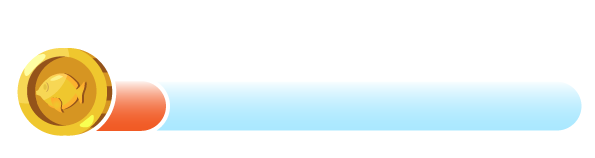
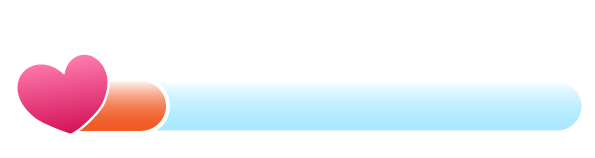
added responsiveness

Changed region(s): [[0.0303, 0.3038, 0.2118, 0.8608]]

diff --git a/models/world.class.js b/models/world.class.js
@@ -5,6 +5,7 @@ class World {
     camera_x = 0;
     character = new Character();
     level = level1;
+    statusBar = new StatusBar();
 
 
     constructor(canvas, keyboard) {
@@ -37,6 +38,11 @@ class World {
         this.addObjectsToMap(this.level.lights);
         this.addObjectToMap(this.character);
         this.addObjectsToMap(this.level.enemies);
+        this.ctx.translate(-this.camera_x, 0);
+        // Space for fixed Objects:
+        this.addObjectToMap(this.statusBar);
+        // space end
+        this.ctx.translate(this.camera_x, 0);
     }
 
     addObjectsToMap(obj) {
@@ -92,9 +98,9 @@ class World {
             this.level.enemies.forEach((enemy) => {
                 if (this.character.isColliding(enemy) && !this.character.isHurt() && !this.character.hasNoHealth()) {
                     this.addDamage(enemy);
-                    console.log('Collision with ', enemy, ' Energy is ', this.character.health);
                 }
             })
+            this.statusBar.setPercentage(this.character.health);
         }, 200);
     }
 
@@ -104,7 +110,7 @@ class World {
 
                 break;
             case enemy instanceof Jellyfish:
-                this.character.hit(5);
+                this.character.hit(20);
                 this.character.isShocked = true;
                 if (this.character.health <= 0) {
                     this.character.hadDied = true;
@@ -113,7 +119,7 @@ class World {
                 // this.character.resetIdleAndSleepParameters();
                 break;
             case enemy instanceof Endboss:
-                this.character.hit(20);
+                this.character.hit(40);
                 break;
         }
     }

diff --git a/models/status-bar.class.js b/models/status-bar.class.js
@@ -1,7 +1,7 @@
 class StatusBar extends DrawableObject {
-    height = 480;
-    width = 720;
-    x = 0;
+    height = 158 / 3.5;
+    width = 595 / 3.5;
+    x = 10;
     y = 0;
     percentage = 100;
 
@@ -17,34 +17,35 @@ class StatusBar extends DrawableObject {
     constructor(path, x) {
         super().loadImage(path, x);
         this.loadImages(this.IMAGES_HEALTH_BAR);
+        this.setPercentage(100);
     }
 
     setPercentage(percentage) {
         this.percentage = percentage;
         let i = this.percentageDecision(percentage);
-        let path = this.IMAGES_HEALTH_BAR(i);
+        let path = this.IMAGES_HEALTH_BAR[i];
         this.img = this.imageCache[path];
     }
 
     percentageDecision(perc) {
         let index;
         switch (true) {
-            case isApprox100(perc):
+            case this.isApprox100(perc):
                 index = 5;
                 break;
-            case isApprox80(perc):
+            case this.isApprox80(perc):
                 index = 4;
                 break;
-            case isApprox60(perc):
+            case this.isApprox60(perc):
                 index = 3;
                 break;
-            case isApprox40(perc):
+            case this.isApprox40(perc):
                 index = 2;
                 break;
-            case isApprox20(perc):
+            case this.isApprox20(perc):
                 index = 1;
                 break;
-            case isApprox0(perc):
+            case this.isApprox0(perc):
                 index = 0;
                 break;
 

diff --git a/css/style.css b/css/style.css
@@ -1,0 +1,63 @@
+body {
+    margin: 0;
+    display: flex;
+    flex-direction: column;
+    justify-content: center;
+    align-items: center;
+    min-height: 100vh;
+    background-image: url('../img/backgroundimage.jpg');
+    background-position: center;
+    font-family: 'LuckiestGuy', Arial, Helvetica, sans-serif;
+    color: rgb(240, 231, 197);
+}
+
+canvas {
+    background-color: black;
+    border: 16px solid transparent;
+    border-image: url('../img/border.png') 2.333% round;
+    display: block;
+}
+
+h1 {
+    font-size: 3.5rem;
+    letter-spacing: 3px;
+    text-shadow: 4px 2px 2px rgb(240, 231, 197, 0.4);
+}
+
+@media only screen and (max-width: 752px) {
+    canvas {
+        border: unset;
+    }
+}
+
+@media only screen and (max-width: 720px) {
+    canvas {
+        width: 100%;
+    }
+}
+
+@media only screen and (max-height: 660px) {
+    h1 {
+        font-size: 2rem;
+        margin: 0 !important;
+        margin-bottom: 1rem !important;
+    }
+}
+
+@media only screen and (max-height: 570px) {
+    h1 {
+        display: none;
+    }
+}
+
+@media only screen and (max-height: 512px) {
+    canvas {
+        border: unset;
+    }
+}
+
+@media only screen and (max-height: 480px) {
+    canvas {
+        height: 100vh;
+    }
+}

diff --git a/index.html b/index.html
@@ -6,7 +6,8 @@
     <meta http-equiv="X-UA-Compatible" content="IE=edge">
     <meta name="viewport" content="width=device-width, initial-scale=1.0">
     <title>Sharky</title>
-    <link rel="stylesheet" href="style.css">
+    <link rel="stylesheet" href="css/style.css" />
+    <link rel="stylesheet" href="css/fonts.css" />
     <link rel="apple-touch-icon" sizes="180x180" href="favicon/apple-touch-icon.png">
     <link rel="icon" type="image/png" sizes="32x32" href="favicon/favicon-32x32.png">
     <link rel="icon" type="image/png" sizes="16x16" href="favicon/favicon-16x16.png">
@@ -14,6 +15,7 @@
     <script src="models/world.class.js"></script>
     <script src="models/drawable-object.class.js"></script>
     <script src="models/movable-object.class.js"></script>
+    <script src="models/throwable-object.class.js"></script>
     <script src="models/character.class.js"></script>
     <script src="models/jellyfish.class.js"></script>
     <script src="models/light.class.js"></script>
@@ -28,6 +30,7 @@
 </head>
 
 <body onload="init()">
+    <h1>Sharkie</h1>
     <canvas id="canvas" width="720" height="480"></canvas>
 </body>
 

diff --git a/models/movable-object.class.js b/models/movable-object.class.js
@@ -7,7 +7,6 @@ class MovableObject extends DrawableObject {
     offsetBottom = 0;
     offsetRight = 0;
     offsetLeft = 0;
-    health = 100;
     lastHit = 0;
     hadDied = false;
     // upDirection = false;
@@ -53,17 +52,6 @@ class MovableObject extends DrawableObject {
 
     isAtLastElement(arr_length) {
         return this.currentImage == (arr_length - 1);
-    }
-
-    drawRect(ctx) {
-        if (this instanceof Character || this instanceof Jellyfish || this instanceof Endboss) {
-            ctx.beginPath();
-            ctx.lineWidth = '1';
-            ctx.strokeStyle = 'red';
-            ctx.rect(this.x + this.offsetLeft, this.y + this.offsetTop, this.width - this.offsetRight, this.height - this.offsetBottom);
-            ctx.rect(this.x, this.y, this.width, this.height);
-            ctx.stroke();
-        }
     }
 
     isColliding(obj) {

diff --git a/models/drawable-object.class.js b/models/drawable-object.class.js
@@ -5,6 +5,7 @@ class DrawableObject {
     y;
     height;
     width;
+    health = 100;
 
     loadImage(path) {
         this.img = new Image();
@@ -21,5 +22,16 @@ class DrawableObject {
 
     draw(ctx) {
         ctx.drawImage(this.img, this.x, this.y, this.width, this.height);
+    }
+
+    drawRect(ctx) {
+        if (this instanceof Character || this instanceof Jellyfish || this instanceof Endboss) {
+            ctx.beginPath();
+            ctx.lineWidth = '1';
+            ctx.strokeStyle = 'red';
+            ctx.rect(this.x + this.offsetLeft, this.y + this.offsetTop, this.width - this.offsetRight, this.height - this.offsetBottom);
+            ctx.rect(this.x, this.y, this.width, this.height);
+            ctx.stroke();
+        }
     }
 }

diff --git a/css/fonts.css b/css/fonts.css
@@ -1,0 +1,8 @@
+/* LuckiestGuy-regular */
+
+@font-face {
+    font-family: 'LuckiestGuy';
+    font-style: normal;
+    font-weight: 400;
+    src: url('../fonts/luckiestGuy-Regular.ttf') format('truetype');
+}

diff --git a/models/throwable-object.class.js b/models/throwable-object.class.js
@@ -1,0 +1,3 @@
+class ThrowableObject extends DrawableObject {
+
+}
